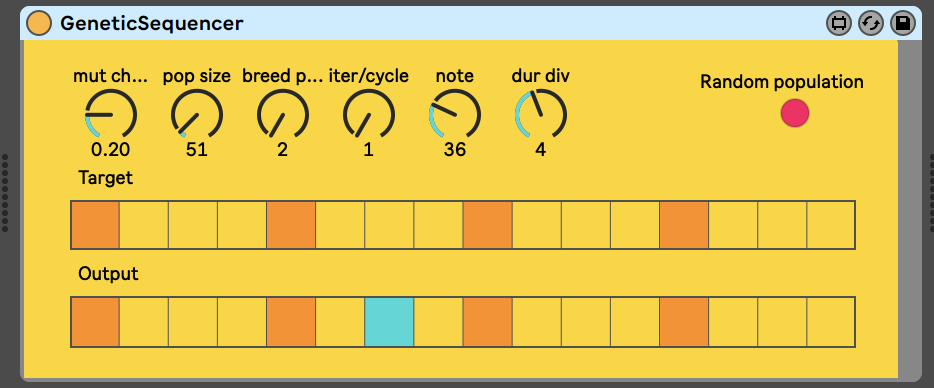
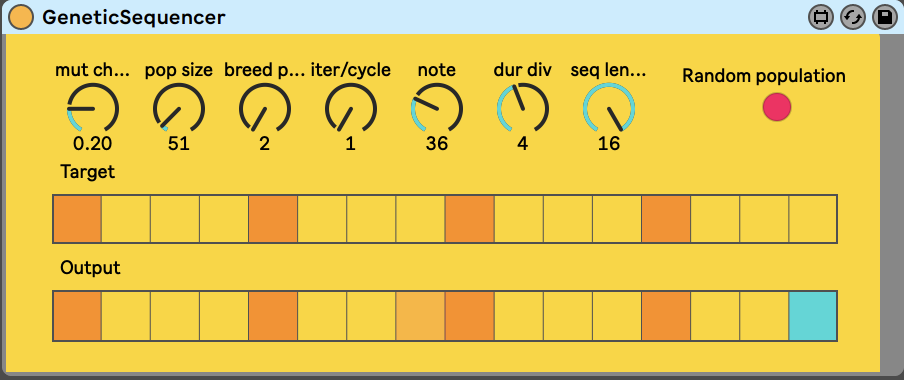
fixed sequence not restarting when transport is stopped, fixed timing errors on first loop, added visual feedback for current step, added step length parameter

diff --git a/main.js b/main.js
@@ -6,7 +6,8 @@ const inputs = {
   populationSize: 51,
   mutationChance: 0.2,
   breedingPopulationSize: 2,
-  iterationsPerCycle: 1
+  iterationsPerCycle: 1,
+  seqLength: 16
 };
 
 //-----GENETIC ALGORITHM FUNCTIONS
@@ -95,6 +96,19 @@ maxApi.addHandler("targetInit", (command, ...steps) => {
   if (command == "extra1") {
     inputs.target = steps;
   }
+});
+
+maxApi.addHandler("seqLength", seqLength => {
+  const increased = seqLength > inputs.seqLength;
+  population.forEach(p => {
+    p.length = seqLength;
+    if (increased) {
+      for (let i = inputs.seqLength; i < seqLength; i++) {
+        p[i] = toss();
+      }
+    }
+  });
+  inputs.seqLength = seqLength;
 });
 
 maxApi.addHandler("randomizePopulation", _ => {
